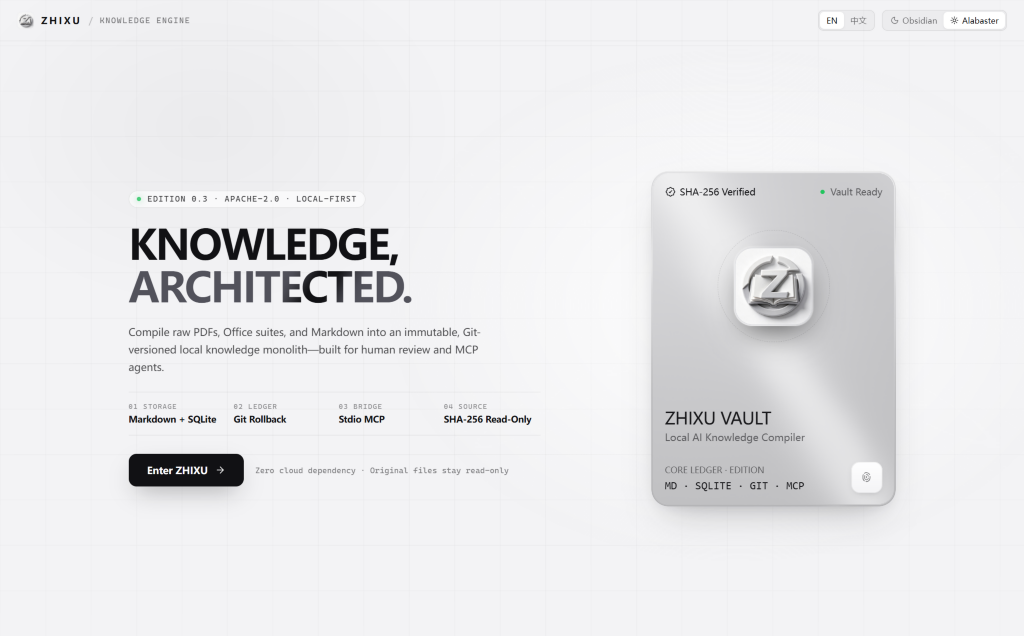
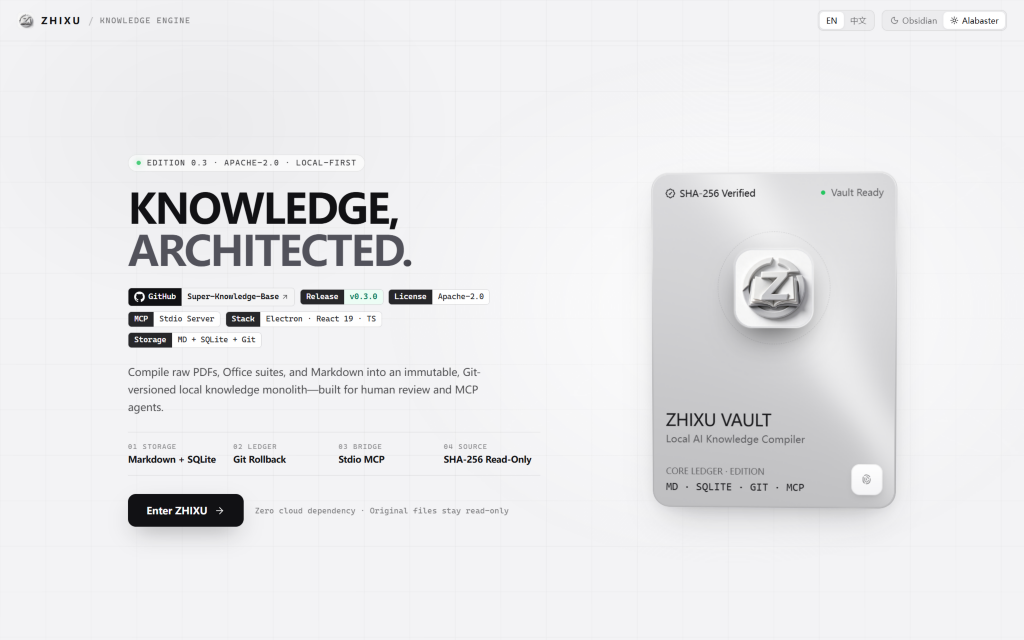
feat(login): add native tech badges and clickable GitHub repo link

diff --git a/src/renderer/src/components/LoginPage.tsx b/src/renderer/src/components/LoginPage.tsx
@@ -1,6 +1,6 @@
 import { HugeiconsIcon } from '@hugeicons/react'
 import { CheckmarkBadge01Icon, FingerPrintIcon } from '@hugeicons/core-free-icons'
-import { ArrowRight, CircleAlert, Eye, EyeOff, KeyRound, Minus, Moon, Square, Sun, X } from 'lucide-react'
+import { ArrowRight, ArrowUpRight, CircleAlert, Eye, EyeOff, KeyRound, Minus, Moon, Square, Sun, X } from 'lucide-react'
 import { useState, type FormEvent } from 'react'
 import logo from '../assets/zhixu-icon.png'
 import { useI18n } from '../i18n'
@@ -151,6 +151,62 @@ export default function LoginPage({
               </>
             )}
           </h1>
+
+          <div className="vault-badges-bar" aria-label={tx('项目信息与 GitHub 仓库', 'Project badges and GitHub repository')}>
+            <a
+              className="vault-badge vault-badge-github"
+              href="https://github.com/JoeJiang-927117/Super-Knowledge-Base"
+              target="_blank"
+              rel="noreferrer"
+              title="https://github.com/JoeJiang-927117/Super-Knowledge-Base"
+            >
+              <span className="vault-badge-k">
+                <svg viewBox="0 0 16 16" width="12" height="12" fill="currentColor" aria-hidden="true">
+                  <path d="M8 0C3.58 0 0 3.58 0 8c0 3.54 2.29 6.53 5.47 7.59.4.07.55-.17.55-.38 0-.19-.01-.82-.01-1.49-2.01.37-2.53-.49-2.69-.94-.09-.23-.48-.94-.82-1.13-.28-.15-.68-.52-.01-.53.63-.01 1.08.58 1.23.82.72 1.21 1.87.87 2.33.66.07-.52.28-.87.51-1.07-1.78-.2-3.64-.89-3.64-3.95 0-.87.31-1.59.82-2.15-.08-.2-.36-1.02.08-2.12 0 0 .67-.21 2.2.82.64-.18 1.32-.27 2-.27.68 0 1.36.09 2 .27 1.53-1.04 2.2-.82 2.2-.82.44 1.1.16 1.92.08 2.12.51.56.82 1.27.82 2.15 0 3.07-1.87 3.75-3.65 3.95.29.25.54.73.54 1.48 0 1.07-.01 1.93-.01 2.2 0 .21.15.46.55.38A8.013 8.013 0 0016 8c0-4.42-3.58-8-8-8z" />
+                </svg>
+                GitHub
+              </span>
+              <span className="vault-badge-v">
+                Super-Knowledge-Base
+                <ArrowUpRight className="vault-badge-ext" />
+              </span>
+            </a>
+
+            <a
+              className="vault-badge vault-badge-release"
+              href="https://github.com/JoeJiang-927117/Super-Knowledge-Base/releases/latest"
+              target="_blank"
+              rel="noreferrer"
+            >
+              <span className="vault-badge-k">Release</span>
+              <span className="vault-badge-v">v0.3.0</span>
+            </a>
+
+            <a
+              className="vault-badge"
+              href="https://github.com/JoeJiang-927117/Super-Knowledge-Base/blob/main/LICENSE"
+              target="_blank"
+              rel="noreferrer"
+            >
+              <span className="vault-badge-k">License</span>
+              <span className="vault-badge-v">Apache-2.0</span>
+            </a>
+
+            <span className="vault-badge">
+              <span className="vault-badge-k">MCP</span>
+              <span className="vault-badge-v">Stdio Server</span>
+            </span>
+
+            <span className="vault-badge">
+              <span className="vault-badge-k">Stack</span>
+              <span className="vault-badge-v">Electron · React 19 · TS</span>
+            </span>
+
+            <span className="vault-badge">
+              <span className="vault-badge-k">Storage</span>
+              <span className="vault-badge-v">MD + SQLite + Git</span>
+            </span>
+          </div>
 
           <p className="vault-manifesto">
             {tx(

diff --git a/src/renderer/src/index.css b/src/renderer/src/index.css
@@ -1745,6 +1745,110 @@ mark.hit-hl { padding: 0 3px; border-radius: 3px; background: rgba(37, 99, 235, 
   color: transparent;
 }
 
+.vault-badges-bar {
+  display: flex;
+  flex-wrap: wrap;
+  align-items: center;
+  gap: 7px;
+  max-width: 540px;
+}
+
+.vault-badge {
+  display: inline-flex;
+  align-items: stretch;
+  overflow: hidden;
+  border-radius: 5px;
+  border: 1px solid rgba(255, 255, 255, 0.12);
+  font-family: var(--mono);
+  font-size: 11px;
+  line-height: 1;
+  text-decoration: none;
+  color: inherit;
+  transition: transform 0.16s ease, border-color 0.16s ease, box-shadow 0.16s ease;
+}
+
+a.vault-badge:hover {
+  transform: translateY(-1px);
+  border-color: rgba(255, 255, 255, 0.34);
+  box-shadow: 0 4px 12px -6px rgba(0, 0, 0, 0.5);
+}
+
+.vault-badge-k {
+  display: inline-flex;
+  align-items: center;
+  gap: 5px;
+  padding: 5px 8px;
+  background: rgba(255, 255, 255, 0.08);
+  color: rgba(244, 244, 245, 0.88);
+  font-weight: 500;
+}
+
+.vault-badge-v {
+  display: inline-flex;
+  align-items: center;
+  gap: 3px;
+  padding: 5px 8px;
+  background: rgba(255, 255, 255, 0.025);
+  color: rgba(244, 244, 245, 0.72);
+}
+
+.vault-badge-github .vault-badge-k {
+  background: #f4f4f5;
+  color: #111114;
+  font-weight: 600;
+}
+
+.vault-badge-github .vault-badge-v {
+  background: rgba(255, 255, 255, 0.08);
+  color: #f4f4f5;
+  font-weight: 500;
+}
+
+.vault-badge-release .vault-badge-v {
+  color: #4ade80;
+}
+
+.vault-badge-ext {
+  width: 11px;
+  height: 11px;
+  opacity: 0.75;
+}
+
+.vault-entry.theme-light .vault-badge {
+  border-color: rgba(17, 17, 20, 0.13);
+}
+
+.vault-entry.theme-light a.vault-badge:hover {
+  border-color: rgba(17, 17, 20, 0.36);
+  box-shadow: 0 4px 12px -6px rgba(17, 17, 20, 0.22);
+}
+
+.vault-entry.theme-light .vault-badge-k {
+  background: #27272a;
+  color: #fafafa;
+}
+
+.vault-entry.theme-light .vault-badge-v {
+  background: rgba(255, 255, 255, 0.88);
+  color: #27272a;
+}
+
+.vault-entry.theme-light .vault-badge-github .vault-badge-k {
+  background: #111114;
+  color: #ffffff;
+}
+
+.vault-entry.theme-light .vault-badge-github .vault-badge-v {
+  background: #f4f4f5;
+  color: #111114;
+}
+
+.vault-entry.theme-light .vault-badge-release .vault-badge-v {
+  background: #ecfdf5;
+  color: #047857;
+  font-weight: 600;
+}
+
 .vault-manifesto {
   margin: 0;
   font-size: 14.5px;

diff --git a/src/main/index.ts b/src/main/index.ts
@@ -432,7 +432,12 @@ function createWindow(): void {
     }
   })
   mainWindow.once('ready-to-show', () => mainWindow?.show())
-  mainWindow.webContents.setWindowOpenHandler(() => ({ action: 'deny' }))
+  mainWindow.webContents.setWindowOpenHandler(({ url }) => {
+    if (/^https:\/\/(github\.com|joejiang-927117\.github\.io)\//i.test(url)) {
+      void shell.openExternal(url)
+    }
+    return { action: 'deny' }
+  })
   mainWindow.webContents.on('will-navigate', event => event.preventDefault())
   if (process.env.ELECTRON_RENDERER_URL) mainWindow.loadURL(process.env.ELECTRON_RENDERER_URL)
   else mainWindow.loadFile(path.join(__dirname, '../renderer/index.html'))
